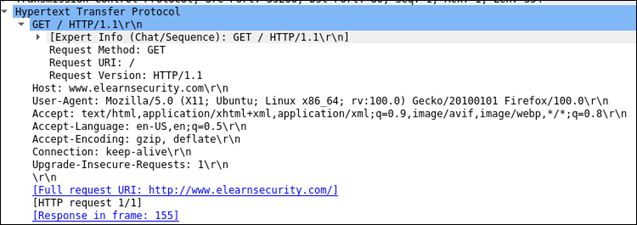
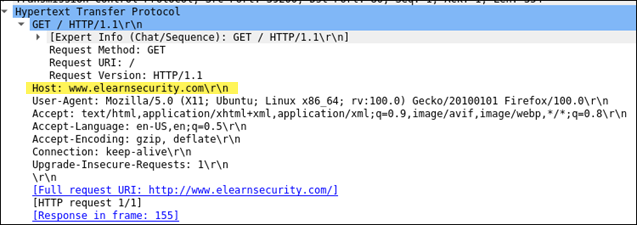
Updated HTTP notes

Changed region(s): [[0.0298, 0.3422, 0.3878, 0.4356]]

diff --git a/docs/notes/index.md b/docs/notes/index.md
@@ -44,3 +44,13 @@ Here is another Wireshark capture of visiting www.elearnsecurity.com with the Fi
 ![](img/1.2-2.png)
 
 The **Host** header field specifies the Internet hostname and port number of the resource being requested. A web server can host multiple websites.  This header field tells the server which site the client is asking for.
+
+The host value is obtained from the [URI](https://www.w3.org/TR/uri-clarification/) of the resource, in the case above the URI is www.elearnsecurity.com.
+
+The **User Agent** header field tells the server what client software is issuing the request. It may also reveal to the server the operating system version.
+
+The browser sends the **Accept** header field to specify which document type it is expecting in the response. Similarly, with **Accept-Language**, the browser can ask for a specific (human) language in the response.
+
+**Accept-Encoding** works similarly to **Accept** but restricts the content encoding, not the content itself.  In this case, the browser accepts two types of compression, gzip and deflate.
+
+The **Connection** header field allows the sender to specify options that are desired for that particular connection. In this case, future connections with the server will reuse the current connection.  
